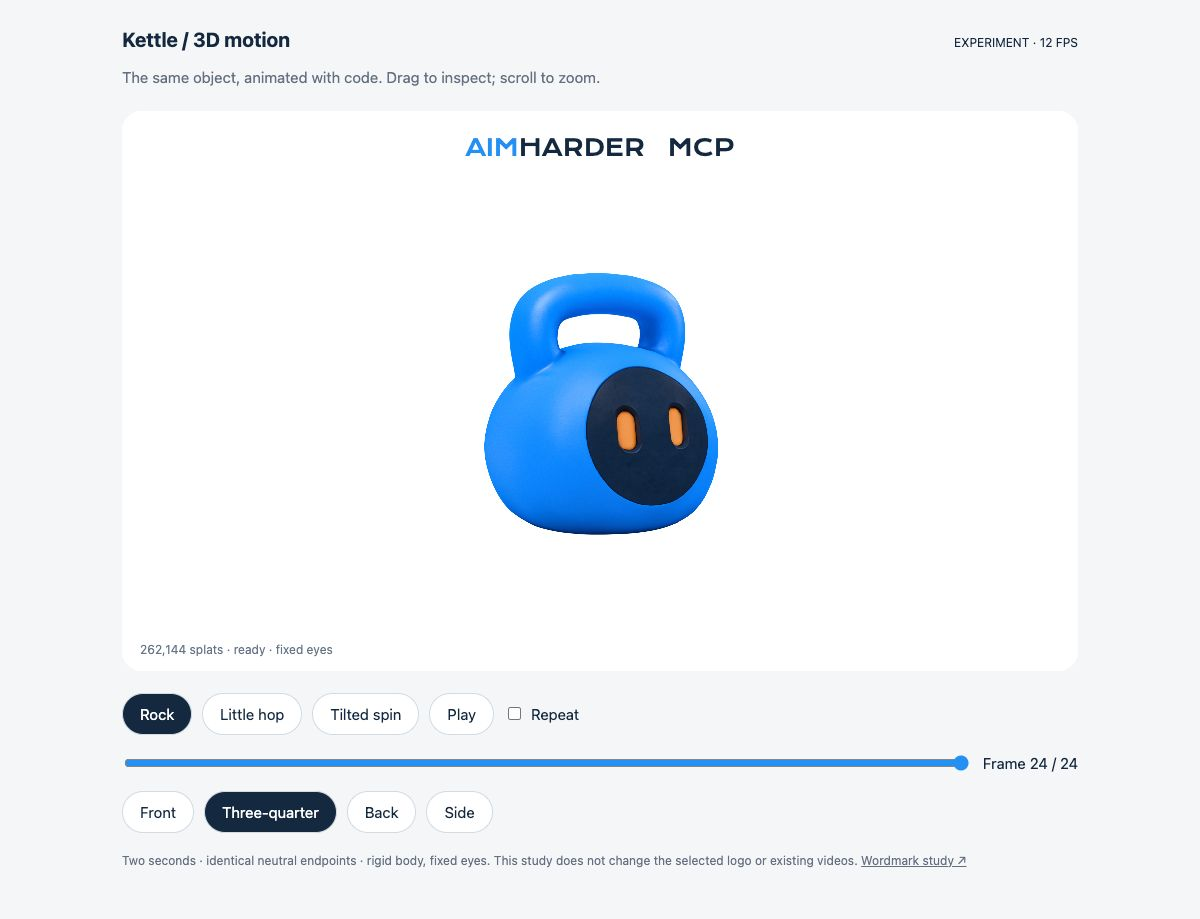
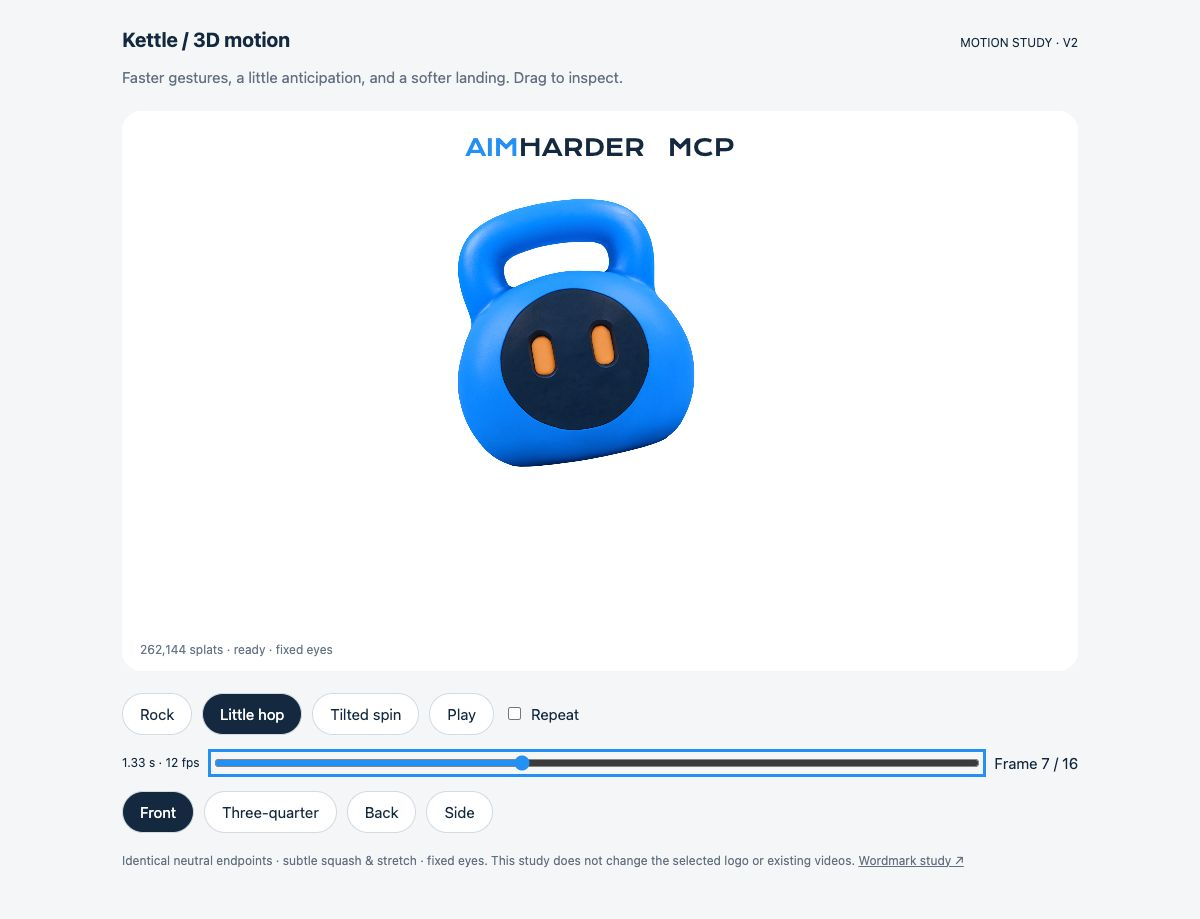
design: refine kettle timing and animation principles

diff --git a/design/identity/idol-motion-prototype/motion.js b/design/identity/idol-motion-prototype/motion.js
@@ -2,6 +2,7 @@
 import * as THREE from 'three';
 import { OrbitControls } from './vendor/OrbitControls.js';
 import { PlyLoader, SplatMesh } from './vendor/visus-2.5.0.js';
+import { FPS, CLIPS, poseAt } from './motion-poses.js';
 
 const stage = document.querySelector('#stage');
 const status = document.querySelector('#status');
@@ -22,36 +23,43 @@ controls.maxDistance = 6;
 const pivot = new THREE.Group();
 scene.add(pivot);
 let mode = 'rock', frame = 0, started = 0, playing = false, ready = false;
-const neutral = { y: 0, roll: 0, pitch: 0, yaw: 0 };
-const tracks = {
-  rock: [[0,0,0],[3,0,-10],[7,0,14],[11,0,-9],[15,0,5],[19,0,-2],[22,0,0],[23,0,0]],
-  hop: [[0,0,0],[3,-.035,-6],[5,.05,7],[9,.30,12],[12,.23,5],[15,0,-11],[18,.015,7],[21,0,-3],[22,0,0],[23,0,0]],
-  spin: [[0,0,0,0],[3,-.025,-9,0],[5,.10,-15,30],[9,.30,-30,145],[12,.26,-22,245],[15,.08,-9,340],[16,0,10,360],[19,.01,-7,360],[22,0,0,360],[23,0,0,360]]
-};
-function poseAt(f) {
-  if (f === 0 || f === 23) return neutral;
-  const track = tracks[mode];
-  let i = 1;
-  while (track[i][0] < f) i++;
-  const a = track[i-1], b = track[i];
-  let t = (f-a[0])/(b[0]-a[0]);
-  t = t*t*(3-2*t);
-  const mix = k => (a[k] || 0) + ((b[k] || 0)-(a[k] || 0))*t;
-  return {y: mix(1), roll: mix(2)*Math.PI/180, yaw: mix(3)*Math.PI/180, pitch: 0};
-}
+let supportPoints = [];
+const supportMatrix = new THREE.Matrix4();
+const supportPoint = new THREE.Vector3();
+const rotation = new THREE.Quaternion();
+const euler = new THREE.Euler(0,0,0,'YXZ');
+const scale = new THREE.Vector3();
+const zero = new THREE.Vector3();
+const duration = document.querySelector('#duration');
 function drawFrame(f) {
   frame = f;
-  const p = poseAt(f);
-  // The asset faces +X: rotate about X for a visible lateral rock.
-  pivot.position.y = p.y;
-  pivot.rotation.set(p.roll, p.yaw, p.pitch);
-  slider.value = f;
-  label.textContent = `Frame ${f+1} / 24`;
+  const p = poseAt(mode,f);
+  const radians = Math.PI/180;
+  // Yaw is around world-up; lateral tilt follows the character through its spin.
+  euler.set(p.roll*radians,p.yaw*radians,p.pitch*radians,'YXZ');
+  rotation.setFromEuler(euler);
+  const width = 1/Math.sqrt(p.height);
+  scale.set(width,p.height,width); // Unit determinant: preserve volume.
+  pivot.quaternion.copy(rotation);
+  pivot.scale.copy(scale);
+  // Approximate the rounded base using sampled Gaussian centers. Avoid rotating
+  // through the floor; this is an artistic contact correction, not rigid physics.
+  supportMatrix.compose(zero,rotation,scale);
+  let lowest=Infinity;
+  for (const point of supportPoints) {
+    supportPoint.copy(point).applyMatrix4(supportMatrix);
+    lowest=Math.min(lowest,supportPoint.y);
+  }
+  pivot.position.set(0,p.lift-(Number.isFinite(lowest)?lowest:0),p.sway);
+  slider.max=CLIPS[mode].frames.length-1;
+  slider.value=f;
+  label.textContent=`Frame ${f+1} / ${CLIPS[mode].frames.length}`;
+  duration.textContent=`${(CLIPS[mode].frames.length/FPS).toFixed(2)} s · ${FPS} fps`;
 }
 function setPlaying(value) {
   playing = value;
   pause.textContent = value ? 'Pause' : 'Play';
-  if (value) started = performance.now()-frame*1000/12;
+  if (value) started = performance.now()-frame*1000/FPS;
 }
 function view(name) {
   const positions = { front:[3.6, .72, 0], quarter:[3.18,.85,1.8], back:[-3.6,.72,0], side:[0,.72,3.6] };
@@ -74,14 +82,22 @@ document.querySelectorAll('[data-motion]').forEach(b=>b.onclick=()=>{
   drawFrame(0);
   setPlaying(true);
 });
-pause.onclick=()=>{if(frame===23)drawFrame(0);setPlaying(!playing);};
+pause.onclick=()=>{if(frame===CLIPS[mode].frames.length-1)drawFrame(0);setPlaying(!playing);};
 slider.oninput=()=>{setPlaying(false);drawFrame(Number(slider.value));};
 try {
   const data = await new PlyLoader().loadAsync('./kettle.ply');
-  const mesh = new SplatMesh(data, { autoSort:true });
   // Normalize around the model's base; no Gaussian geometry/colors are edited.
   const box=data.boundingBox;
   const h=box.max.y-box.min.y;
+  // Copy the support samples before the renderer may transfer its data buffers.
+  const step=Math.max(1,Math.floor(data.numSplats/2048));
+  for (let i=0;i<data.numSplats;i+=step) {
+    supportPoints.push(new THREE.Vector3(
+      (data.centers[i*3]-box.center.x)/h,
+      (box.max.y-data.centers[i*3+1])/h,
+      (box.center.z-data.centers[i*3+2])/h));
+  }
+  const mesh = new SplatMesh(data, { autoSort:true });
   mesh.scale.setScalar(1/h);
   // IDOL export is Y-down. Keep +X facing the camera and flip Y/Z.
   mesh.rotation.x = Math.PI;
@@ -99,10 +115,10 @@ try {
 }
 renderer.setAnimationLoop(now=>{
   if (ready && playing) {
-    const next = Math.floor((now-started)*12/1000);
-    if (next>23) {
+    const next = Math.floor((now-started)*FPS/1000);
+    if (next>=CLIPS[mode].frames.length) {
       if (document.querySelector('#loop').checked) {started=now;drawFrame(0);}
-      else {drawFrame(23);setPlaying(false);}
+      else {drawFrame(CLIPS[mode].frames.length-1);setPlaying(false);}
     } else if (next!==frame) drawFrame(next);
   }
   controls.update();

diff --git a/design/identity/idol-motion-prototype/index.html b/design/identity/idol-motion-prototype/index.html
@@ -4,14 +4,14 @@
 <style>
 @font-face{font-family:Krona;src:url('../wordmark-study/assets/KronaOne-Regular.ttf')}*{box-sizing:border-box}body{margin:0;background:#f5f6f7;color:#14283f;font:15px system-ui,sans-serif}main{max-width:1000px;margin:auto;padding:28px 22px}header{display:flex;align-items:baseline;justify-content:space-between;gap:20px}h1{font-size:20px;margin:0}p{color:#637081;line-height:1.5}small{font-size:12px}#stage{position:relative;background:white;border-radius:20px;overflow:hidden;height:min(62vh,560px);min-height:340px;margin:22px 0}canvas{display:block;width:100%;height:100%;touch-action:none}#status{position:absolute;left:18px;bottom:14px;font-size:12px;color:#667586;pointer-events:none}.wordmark{position:absolute;top:22px;width:100%;text-align:center;font:clamp(13px,3vw,23px) Krona, sans-serif;pointer-events:none}.wordmark span{color:#2490f4}.controls{display:flex;flex-wrap:wrap;gap:10px;align-items:center}button{border:1px solid #d2dae2;border-radius:30px;padding:11px 17px;background:white;color:#14283f;font:inherit;cursor:pointer}button[aria-pressed=true]{background:#14283f;color:white}button:disabled{opacity:.4;cursor:wait}.timeline{display:flex;gap:12px;align-items:center;margin:18px 0}input[type=range]{flex:1;accent-color:#2490f4}label{display:flex;gap:7px;align-items:center}footer{margin-top:20px;font-size:12px;color:#637081}a{color:inherit}button:focus-visible,input:focus-visible{outline:3px solid #2490f4;outline-offset:3px}
 </style>
-<main><header><h1>Kettle / 3D motion</h1><small>EXPERIMENT · 12 FPS</small></header>
-<p>The same object, animated with code. Drag to inspect; scroll to zoom.</p>
+<main><header><h1>Kettle / 3D motion</h1><small>MOTION STUDY · V2</small></header>
+<p>Faster gestures, a little anticipation, and a softer landing. Drag to inspect.</p>
 <div id="stage"><div class="wordmark"><span>AIM</span>HARDER &nbsp; MCP</div><div id="status" role="status">Loading the 262,144-splat model…</div></div>
 <div class="controls" aria-label="Motion"><button data-motion="rock" disabled>Rock</button><button data-motion="hop" disabled>Little hop</button><button data-motion="spin" disabled>Tilted spin</button><button id="pause" disabled>Pause</button><label><input id="loop" type="checkbox">Repeat</label></div>
-<div class="timeline"><input id="frame" aria-label="Animation frame" type="range" min="0" max="23" value="0"><output id="frame-label">Frame 1 / 24</output></div>
+<div class="timeline"><small id="duration">1.17 s · 12 fps</small><input id="frame" aria-label="Animation frame" type="range" min="0" max="13" value="0"><output id="frame-label">Frame 1 / 14</output></div>
 <div class="controls" aria-label="View"><button data-view="front">Front</button><button data-view="quarter">Three-quarter</button><button data-view="back">Back</button><button data-view="side">Side</button></div>
-<footer>Two seconds · identical neutral endpoints · rigid body, fixed eyes. This study does not change the selected logo or existing videos. <a href="../wordmark-study/">Wordmark study ↗</a></footer>
+<footer>Identical neutral endpoints · subtle squash &amp; stretch · fixed eyes. This study does not change the selected logo or existing videos. <a href="../wordmark-study/">Wordmark study ↗</a></footer>
 </main>
 <script type="importmap">{"imports":{"three":"./vendor/three.module.js"}}</script>
-<script type="module" src="./motion.js"></script>
+<script type="module" src="./motion.js?v=2"></script>
 </html>

diff --git a/design/identity/idol-motion-prototype/motion-poses.js b/design/identity/idol-motion-prototype/motion-poses.js
@@ -1,0 +1,45 @@
+// Hand-posed stop-motion exposures. Timing is in frames, not display refreshes.
+export const FPS = 12;
+const neutral = () => ({ lift:0, sway:0, roll:0, yaw:0, pitch:0, height:1 });
+const pose = (roll=0, height=1, yaw=0, pitch=0) => ({...neutral(), roll, height, yaw, pitch});
+
+// Unequal spacing gives a quick impulse and a slower, diminishing recovery.
+const rock = [
+  pose(), pose(-3,.99,-1), pose(-8,.98,-2), pose(3,1.01,1),
+  pose(15,1.015,3), pose(10,1.005,2), pose(-6,.99,-1),
+  pose(-10,1,-2), pose(-3,1.005,0), pose(5,1,1),
+  pose(3,1,0), pose(-1.5), pose(), pose()
+];
+const hop = [
+  pose(), pose(-2,.99), pose(-6,.94), pose(0,1.045),
+  pose(5,1.025,1), pose(9,1.01,2), pose(10,1,3),
+  pose(6,1,2), pose(-2,1.025,1), pose(-11,.91,-2),
+  pose(7,1.02,1), pose(4,1.005,1), pose(-3,.995),
+  pose(1), pose(), pose()
+];
+const spin = [
+  pose(), pose(-3,.99,-3), pose(-9,.94,-10), pose(-12,1.04,0),
+  pose(-20,1.025,24), pose(-27,1.01,78), pose(-30,1,145),
+  pose(-30,1,225), pose(-24,1,290), pose(-13,1.015,333),
+  pose(-4,1.035,358), pose(10,.91,367), pose(-9,.985,365),
+  pose(6,1.02,358), pose(-3,1,360), pose(1,1,360), pose(), pose()
+];
+function flight(track, takeoff, landing, height, sideways) {
+  // A parabola changes spacing naturally: fast near the ground, slow at the apex.
+  for (let f=takeoff; f<=landing; f++) {
+    const t=(f-takeoff)/(landing-takeoff);
+    track[f].lift=4*height*t*(1-t);
+    track[f].sway=sideways*Math.sin(Math.PI*t);
+  }
+}
+flight(hop,3,9,.24,.045);
+flight(spin,3,11,.26,.06);
+export const CLIPS = {
+  rock:{name:'Rock', frames:rock},
+  hop:{name:'Little hop', frames:hop},
+  spin:{name:'Tilted spin', frames:spin}
+};
+export function poseAt(mode, frame) {
+  const frames=CLIPS[mode].frames;
+  return frames[Math.max(0,Math.min(frames.length-1,frame))];
+}

diff --git a/design/identity/idol-motion-prototype/README.md b/design/identity/idol-motion-prototype/README.md
@@ -2,7 +2,7 @@
 
 ## Question and scope
 
-Can the owner's IDOL reconstruction preserve the kettle's identity while supporting controlled stop-motion emotes? This is a throwaway, isolated study for issue #95 on `codex/95-symbol-motion-prototype`. It does not replace the wordmark study, generated videos, or production UI. Owner acceptance is pending.
+Can the owner's IDOL reconstruction preserve the kettle's identity while supporting controlled stop-motion emotes? This is a throwaway, isolated study for issue #95 on `codex/95-symbol-motion-prototype`. It does not replace the wordmark study, generated videos, or production UI. The owner liked the first 3D study and requested faster, more natural motion. Acceptance of the revised timing is pending.
 
 Open `index.html` through a static server. From the repository root:
 
@@ -22,20 +22,24 @@ Then open `/idol-motion-prototype/` on that server. The existing tailnet-only pr
 
 ## Motion and inspection
 
-Three selectable two-second motions each hold 24 poses at 12 fps:
+The current V2 timing keeps 12 fps and shortens the original two-second gestures:
 
-- **Rock:** alternating lateral tilts with diminishing amplitude.
-- **Little hop:** small anticipation, lift, landing and settling rock.
-- **Tilted spin:** hop, full rotation around the vertical axis, up to 30 degrees of lateral tilt and landing wobble.
+| Gesture | Poses | Duration | Shorter than V1 |
+| --- | --- | --- | --- |
+| Rock | 14 | 1.17 s | 42% |
+| Little hop | 16 | 1.33 s | 33% |
+| Tilted spin | 18 | 1.50 s | 25% |
 
-The first and last poses use exactly the same neutral transform. These are whole-object transforms; there is no new AI generation, eye animation, squashing, dynamic relighting or physical collision simulation. The renderer may refresh more often than 12 fps while the motion pose changes only at 12 fps. The frame slider freezes the selected pose. Front/quarter/back/side buttons and drag/zoom support visual inspection. Repetition is opt-in; automatic initial playback respects reduced-motion preference.
+[Motion notes](animation-principles.md) map the twelve animation principles to this character. Hand-posed unequal spacing replaces uniform smoothstep interpolation. Hop/spin use parabolic lift and a small lateral arc, anticipation, volume-preserving squash/stretch, angular overshoot and asymmetric settling. The spin's peak tilt remains 30 degrees.
+
+The first and last poses use exactly the same neutral transform. A sampled-center support correction approximates contact around the rounded base; it is not a physical collision solver. There is no new AI generation, independent eye/handle animation or dynamic relighting. The renderer may refresh more often than 12 fps while the motion pose changes only at 12 fps. The frame slider freezes the selected pose. Front/quarter/back/side buttons and drag/zoom support visual inspection. Repetition is opt-in; automatic initial playback respects reduced-motion preference.
 
 ## Verification — 2026-10-30
 
 - Actual PLY loaded/rendered in Chrome using the Tailscale HTTPS URL. Front, three-quarter and rear views were visually inspected; the face and handle remain recognizable. Source orientation was corrected after the first render.
-- Rock, hop and tilted-spin playback controls were exercised; playback progressed and returned to frame 24 in the neutral pose. Scrubbing showed the lateral tilt. Endpoints are explicitly equal in code.
+- V1 rock, hop and tilted-spin controls were exercised and returned to frame 24. V2 shortens them to 14/16/18 poses; Chrome playback and hop apex/landing scrubbing were checked. Endpoints are explicitly equal in the pose data.
 - At a simulated 390 × 844 viewport, the model rendered and the page had no horizontal overflow. This is desktop browser emulation, not real-device performance acceptance.
-- `node --check motion.js` passed. Static page, model and local dependency URLs returned HTTP 200 through Tailscale.
+- `node --check motion.js` and `node --check motion-poses.js` passed. A numerical pose audit passed for finite values, non-negative lift, positive scale, volume-preserving scale determinant and identical endpoint poses for all three gestures. Static page, model and local dependency URLs returned HTTP 200 through Tailscale.
 - [Desktop preview](desktop-preview.png) records the rendered object.
 
 This demonstrates a usable candidate for rigid motion. Eye deformation, export to video, compression, production integration, GPU/load-time measurements and physical-mobile acceptance remain unverified. No architecture, security, API or distribution decision is made; existing ADRs are unaffected.

diff --git a/design/identity/idol-motion-prototype/animation-principles.md b/design/identity/idol-motion-prototype/animation-principles.md
@@ -1,0 +1,26 @@
+# Animation direction — V2
+
+The owner accepted the direction of the first 3D trial, requested faster gestures, and asked us to study the twelve animation principles. Sources reviewed: the supplied [Wikipedia article](https://en.wikipedia.org/wiki/Twelve_basic_principles_of_animation) and the primary [Frank Thomas / Ollie Johnston physical-animation notes](https://frankanollie.com/PhysicalAnimation.html). The short Google share URL was inaccessible to the research tool; the named article was read directly.
+
+These are artistic choices for this specific prototype, not a claim that every principle has been fully implemented or perceptually validated.
+
+| Principle | Application to this kettle |
+| --- | --- |
+| Squash and stretch | Restrained preparation/impact compression and takeoff stretch. The two transverse scales compensate the height scale, preserving transform volume. The PLY remains unchanged. |
+| Anticipation | Two preparation poses lead into lift or rotation, with a small counter-turn before the spin. |
+| Staging | One gesture per clip, a fixed default camera and ample white space keep the handle and face readable. Drag is an inspection control. |
+| Straight ahead / pose to pose | Explicit exposed poses define the gesture; no universal smoothing curve erases its accents. |
+| Follow through / overlap | Angular overshoot and decaying settle continue after landing. Height and rotation settle on different beats. Independent eye/handle lag is deferred because the source is not rigged. |
+| Slow in / slow out | Unequal pose spacing contrasts preparation, fast impulse, slower apex and sharper impact. |
+| Arcs | Parabolic vertical lift plus a small lateral excursion replaces eased, floating vertical segments. |
+| Secondary action | Small supporting yaw enriches the rock/hop. Facial secondary action is deferred. |
+| Timing | Rock 14, hop 16 and spin 18 exposures at 12 fps replace 24-exposure clips. |
+| Exaggeration | The spin keeps its 30-degree lean; restrained body compression clarifies impact. |
+| Solid drawing / weight | The original 3D shape supplies volume; approximate sampled-base support keeps a tilted pose near its contact plane. This is artistic support, not physics. |
+| Appeal | Preserve the simple orange eyes, circular face and recognizable silhouette. Final cuteness and naturalness remain owner judgments. |
+
+## Web integration proposal (not implemented)
+
+The prototype already uses Three.js with Visus. A production logo could place a transparent canvas between the text elements and use a static poster while the model loads, when motion is reduced, or when rendering is unavailable. Load the 3D renderer only where the mascot appears, stop rendering while idle/offscreen, and trigger infrequent gestures rather than endless motion. Video exports from the same model remain an alternative.
+
+The source is still 17.8 MB uncompressed. Compression, actual mobile GPU/load-time measurements and the tradeoff against pre-rendered video must be evaluated before selecting the production delivery. No architecture ADR is adopted by this experiment.

diff --git a/design/identity/README.md b/design/identity/README.md
@@ -1,6 +1,6 @@
 # Kettlebell robot identity trials
 
-Latest isolated experiment: the [owner-supplied IDOL model motion study](idol-motion-prototype/README.md) renders the actual Gaussian asset with three controlled 12 fps motions. It is a candidate under review and does not replace the wordmark or existing video set.
+Latest isolated experiment: the [owner-supplied IDOL model motion study](idol-motion-prototype/README.md) renders the actual Gaussian asset. The owner liked V1; V2 applies [animation-principle notes](idol-motion-prototype/animation-principles.md), shorter 1.17/1.33/1.50-second gestures at 12 fps, parabolic lift and subtle volume-preserving squash/stretch. Revised cadence acceptance is pending. It does not replace the wordmark or existing video set.
 
 Current brand-design stage: the owner considers the motion set sufficient and has returned to the wordmark. The [real-font composition study](wordmark-study/README.md) compares Krona One, Big Shoulders 600 and Aldrich with the selected circular-face character, preserves the earlier generated lettering reference and reuses existing motion clips only. No final typeface or public home page is selected.
 
